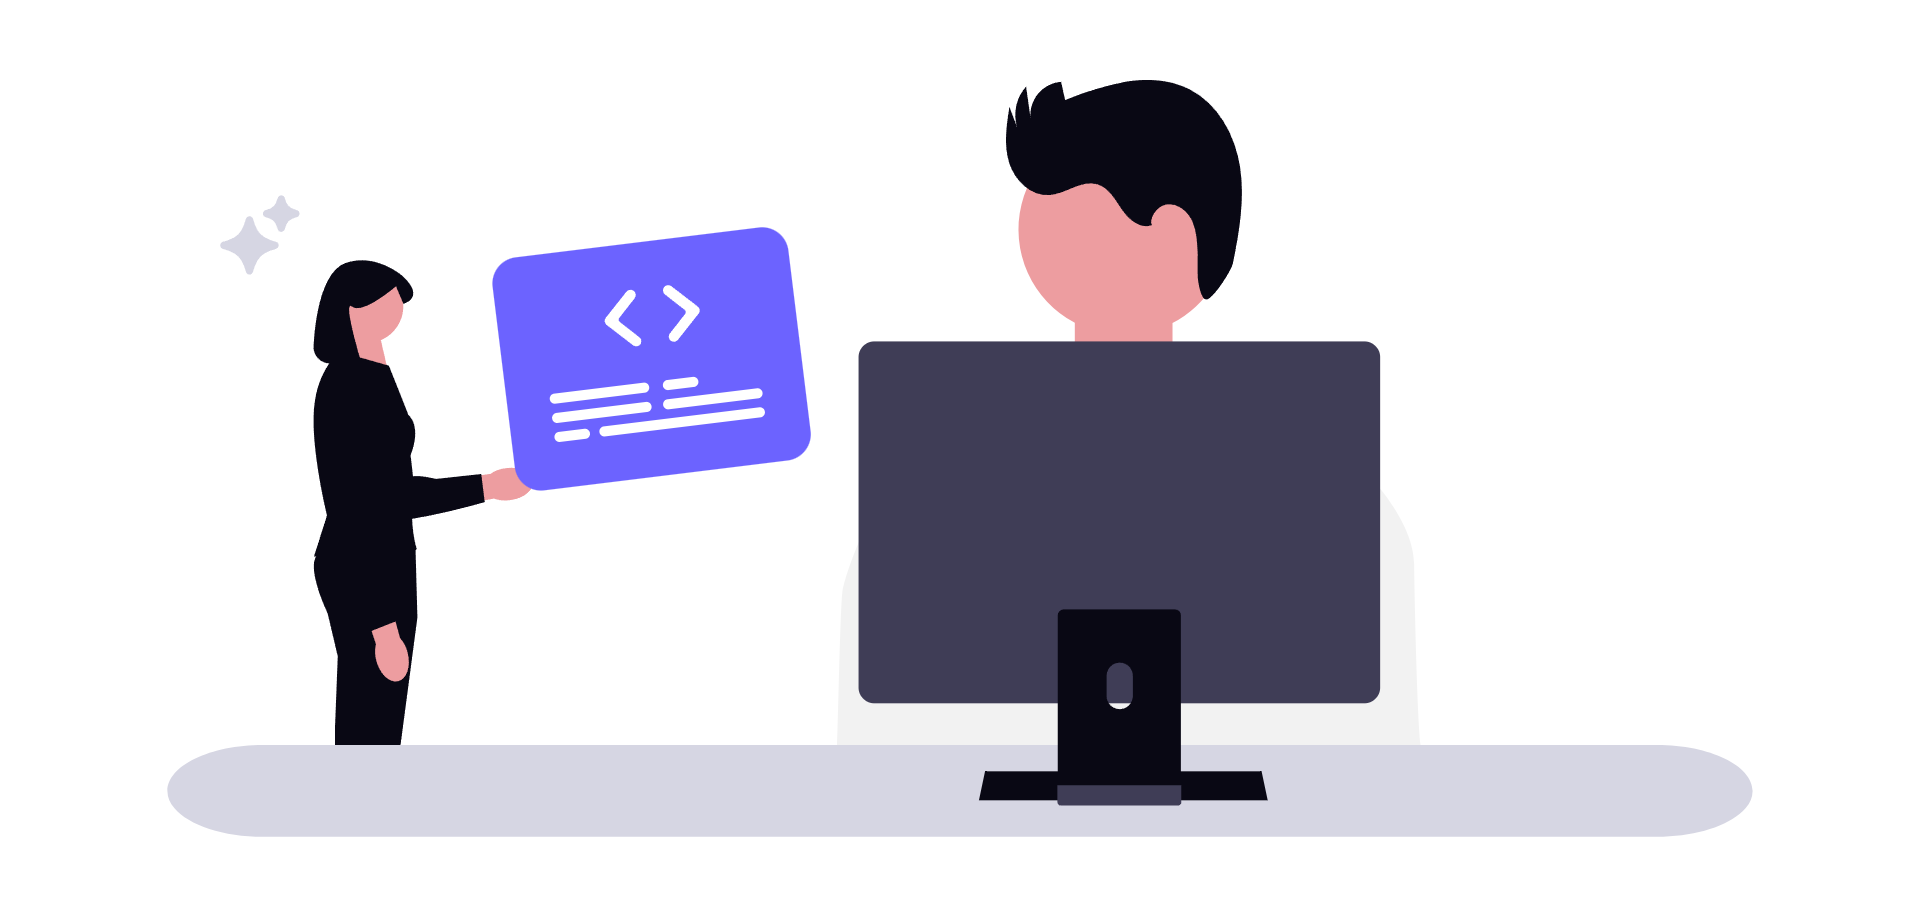
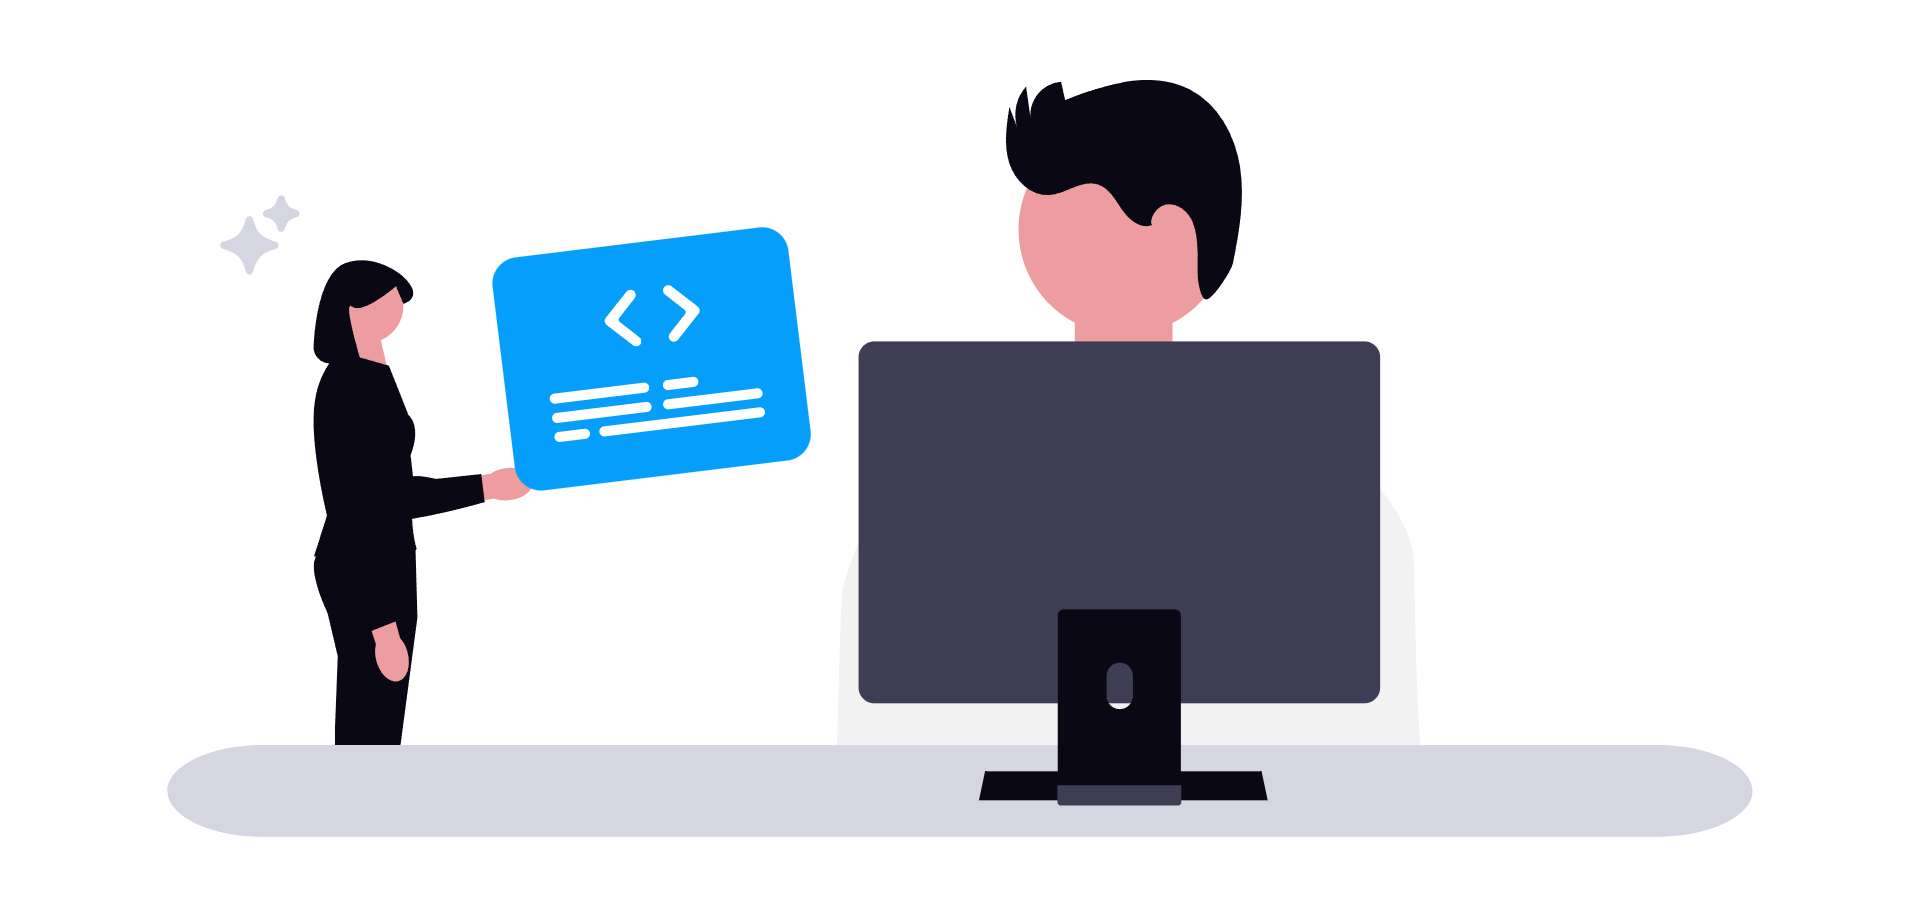
Added Animations

Changed region(s): [[0.25, 0.2443, 0.4375, 0.5496]]

diff --git a/index.html b/index.html
@@ -18,21 +18,21 @@
             <div>
                 <ul class="nav__link--list">
                     <li>
-                        <a href="" class="
+                        <a href="#languages" class="
                     nav__link--anchor
                     link__hover-effect
                     link__hover-effect--black
                     ">Languages</a>
                     </li>
                     <li>
-                        <a href="" class="
+                        <a href="#projects" class="
                     nav__link--anchor
                     link__hover-effect
                     link__hover-effect--black
-                    ">Project</a>
+                    ">Projects</a>
                     </li>
                     <li>
-                        <a href="" class="
+                        <a href="mailto:nathannelson998@gmail.com" class="
                     nav__link--anchor
                     nav__link--anchor-primary
                     ">Contact</a>
@@ -46,12 +46,12 @@
                         <img src="/assets/me.png" class="about-me__picture" alt="Picture of Me!">
                     </figure>
                     <h1 class="about-me__info--title">
-                        Hey! I'm <label for="name" class="text--purple">Nathan Nelson</label> 👋🏾
+                        Hey! I'm <label for="name" class="text--blue">Nathan Nelson</label>&nbsp;<label for="animate-wave" class="wave">👋🏾</label>
                     </h1>
                     <p class="about-me__info--para">
-                        I'm a <strong class="text--purple">frontend software engineer</strong>.
+                        I'm a <strong class="text--blue">frontend software engineer</strong>.
                     </p>
-                    <div class="about-me __links">
+                    <div class="about-me__links">
                         <a href="" class="about-me__link">
                             <i class="fa-brands fa-linkedin-in"></i>
                         </a>
@@ -61,7 +61,7 @@
                         <a href="" class="about-me__link">
                             <i class="fa-regular fa-envelope"></i>
                         </a>
-                        <a href="" class="about-me__link">
+                        <a href="" class="about-me__link" target="_blank">
                             <i class="fa-solid fa-file-pdf"></i>
                         </a>
 
@@ -76,7 +76,7 @@
     <section id="languages">
         <div class="container">
             <div class="row">
-                <h1 class="section__title">This is my <label class="text--purple">technology stack</label></h1>
+                <h1 class="section__title">This is my <label class="text--blue">technology stack</label></h1>
                 <div class="language__list">
                     <div class="language">
                         <figure class="language__img--wrapper">
@@ -106,7 +106,7 @@
     <section id="projects">
         <div class="container">
             <div class="row">
-                <h1 class="section__title">Here are some of my <label class="text--purple">projects</label></h1>
+                <h1 class="section__title">Here are some of my <label class="text--blue">projects</label></h1>
                 <ul class="project__list">
                     <li class="project">
                         <div class="project__wrapper">
@@ -193,7 +193,7 @@
                 link__hover-effect
                 link__hover-effect--white
                 " target="_blank">LinkedIn</a>
-                <a href="mailto:" class="
+                <a href="mailto:nathannelson998@gmail.com" class="
                 footer__social--link
                 link__hover-effect
                 link__hover-effect--white
@@ -202,7 +202,7 @@
                 footer__social--link
                 link__hover-effect
                 link__hover-effect--white
-                " target="_blank" download>Resume</a>
+                " target="_blank">Resume</a>
             </div>
             <div class="footer__copyright">Copyright © 2026 Nathan Nelson</div>
         </div>

diff --git a/style.css b/style.css
@@ -36,6 +36,11 @@ p {
 a {
   text-decoration: none;
   position: relative;
+  transition: opacity 300ms ease;
+}
+
+i:hover {
+  opacity: 0.7;
 }
 
 .link__hover-effect:after {
@@ -59,7 +64,6 @@ a {
 .link__hover-effect:hover:after {
   width: 100%;
   left: 0;
- 
 }
 
 li {
@@ -85,8 +89,8 @@ li {
   margin: 0 auto;
   padding: 0 12px;
 }
-.text--purple {
-  color: #6030b1;
+.text--blue {
+  color: #017BDF;
 }
 
 section:nth-child(even) {
@@ -121,7 +125,7 @@ nav {
 }
 
 .nav__link--anchor-primary {
-  background-color: #6030b1;
+  background-color: #017BDF;
   padding: 8px 20px;
   border-radius: 50px;
   color: white;
@@ -129,12 +133,12 @@ nav {
 }
 
 .nav__link--anchor-primary:hover {
-  background-color: #5d3eff;
+  background-color: #0f3876;
 }
 
 .personal__logo {
   font-size: 24px;
-  color: #6030b1;
+  color: #017BDF;
   margin: 0 12px;
   font-weight: 600;
 }
@@ -169,6 +173,19 @@ nav {
   overflow: hidden;
   box-shadow: 0 8px 16px rgba(0, 0, 0, 0.16);
   margin-bottom: 28px;
+  animation: animate-profile-picture 800ms 200ms backwards;
+}
+
+@keyframes animate-profile-picture {
+  0% {
+    transform: scale(0);
+  }
+  80% {
+    transform: scale(1.1);
+  }
+  100% {
+    transform: scale(1);
+  }
 }
 
 .about-me__picture {
@@ -182,17 +199,34 @@ nav {
 
 .about-me__info--title {
   margin-bottom: 16px;
+  animation: fade-up 650ms 400ms backwards;
 }
 
 .about-me__info--para {
   font-size: 20px;
   margin-bottom: 28px;
+  animation: fade-up 650ms 600ms backwards;
+}
+
+.about-me__links {
+  animation: fade-up 650ms 800ms backwards;
 }
 
 .about-me__link {
   font-size: 20px;
   color: #242424;
   padding: 0 16px;
+}
+
+@keyframes fade-up {
+  0% {
+    opacity: 0;
+    transform: translateY(40px);
+  }
+  100% {
+    opacity: 1;
+    transform: translateY(0);
+  }
 }
 
 .about-me__img--container {
@@ -203,6 +237,34 @@ nav {
 
 .about-me__img {
   width: 100%;
+  animation: fade-in 1200ms 800ms backwards;
+}
+
+@keyframes fade-in {
+  0% {
+    opacity: 0;
+  }
+  100% {
+    opacity: 1;
+  }
+}
+
+.wave {
+  display: inline-block;
+  animation: animate-wave 500ms infinite ease-in-out;
+}
+
+@keyframes animate-wave {
+  0% {
+    transform: rotate(0);
+  }
+
+  50% {
+    transform: rotate(30deg);
+  }
+  100% {
+    transform: rotate(0);
+  }
 }
 
 /* TECH STACK */
@@ -426,33 +488,33 @@ footer {
 /* SMALL PHONES */
 
 @media (max-width: 480px) {
- .nav__link:not(:last-child) {
-   display: none;
- } 
+  .nav__link:not(:last-child) {
+    display: none;
+  }
 
- .project__description {
-  padding: 0;
-  left: 0;
-  width: 100%;
- }
+  .project__description {
+    padding: 0;
+    left: 0;
+    width: 100%;
+  }
 
- .project__description--para {
-  display: none;
- }
+  .project__description--para {
+    display: none;
+  }
 
- .project__description--links {
-  display: flex;
-  justify-content: center;
- }
+  .project__description--links {
+    display: flex;
+    justify-content: center;
+  }
 
- .project__description--title {
-  font-size: 32px;
-  line-height: 1;
-  text-align: center;
- }
+  .project__description--title {
+    font-size: 32px;
+    line-height: 1;
+    text-align: center;
+  }
 
- .project__description--sub-title {
-  text-align: center;
-  margin: 12px 0;
- }
+  .project__description--sub-title {
+    text-align: center;
+    margin: 12px 0;
+  }
 }
